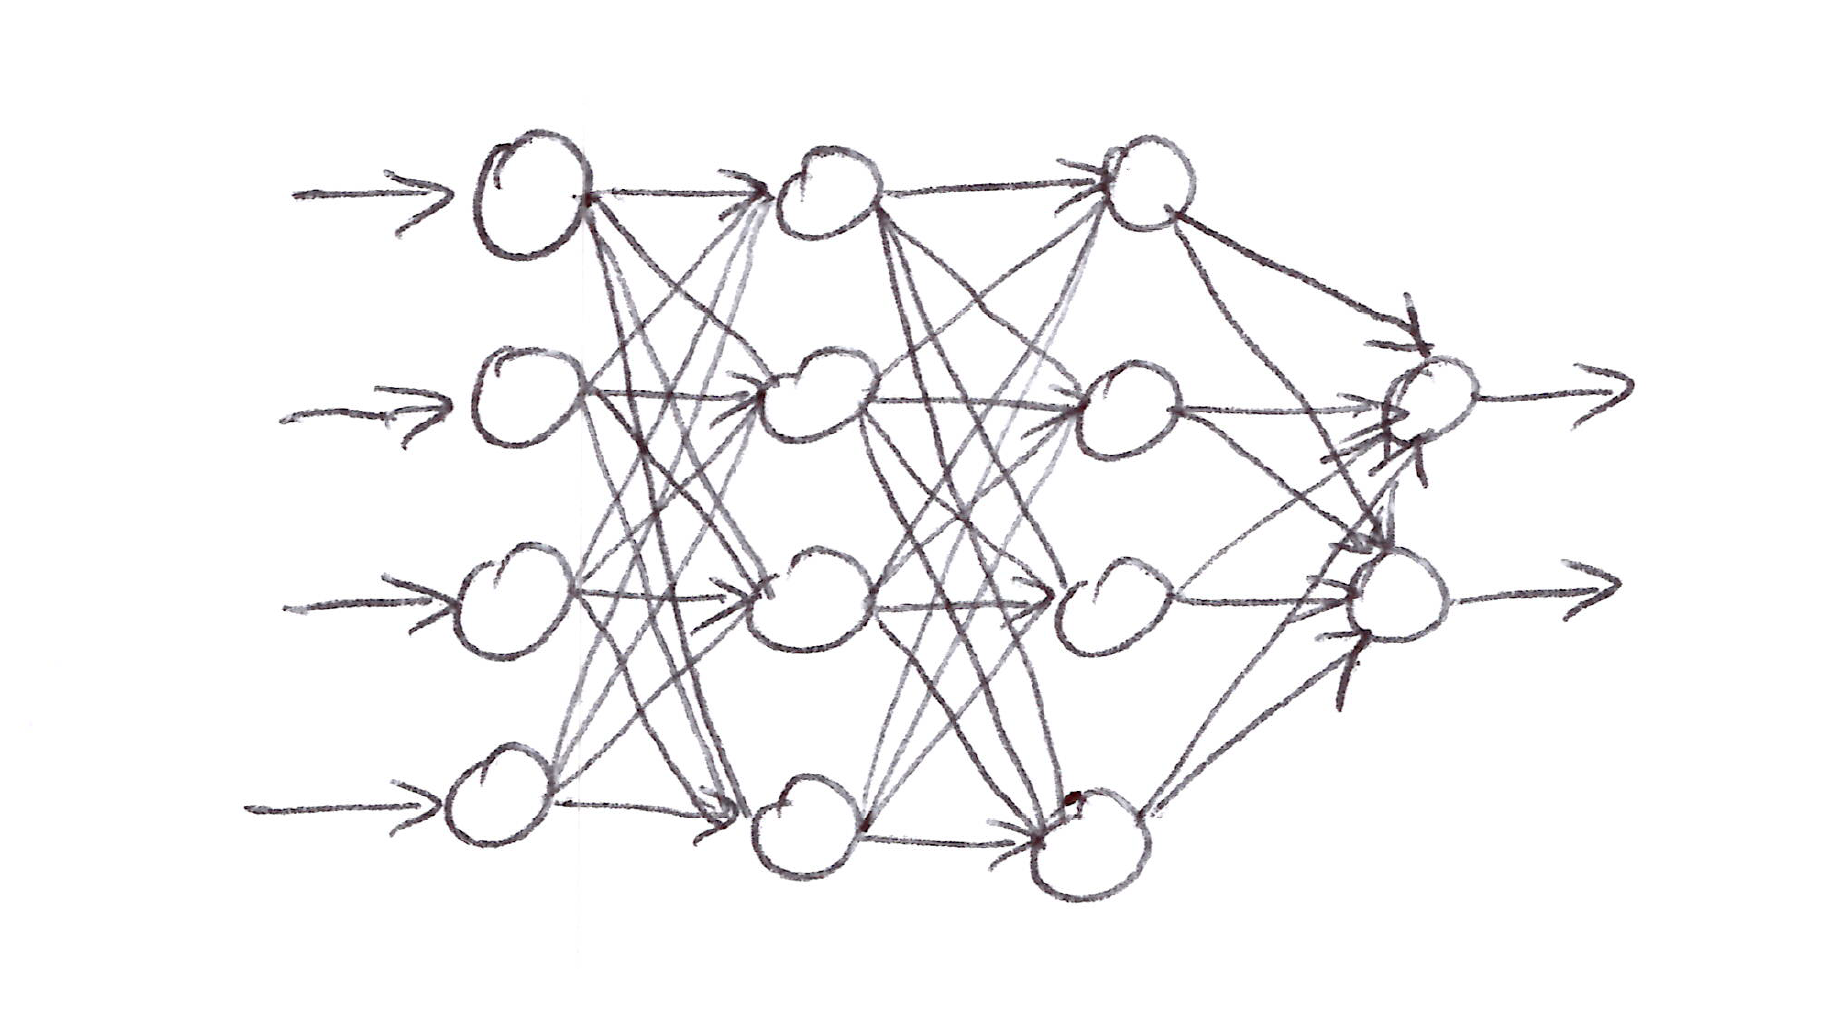
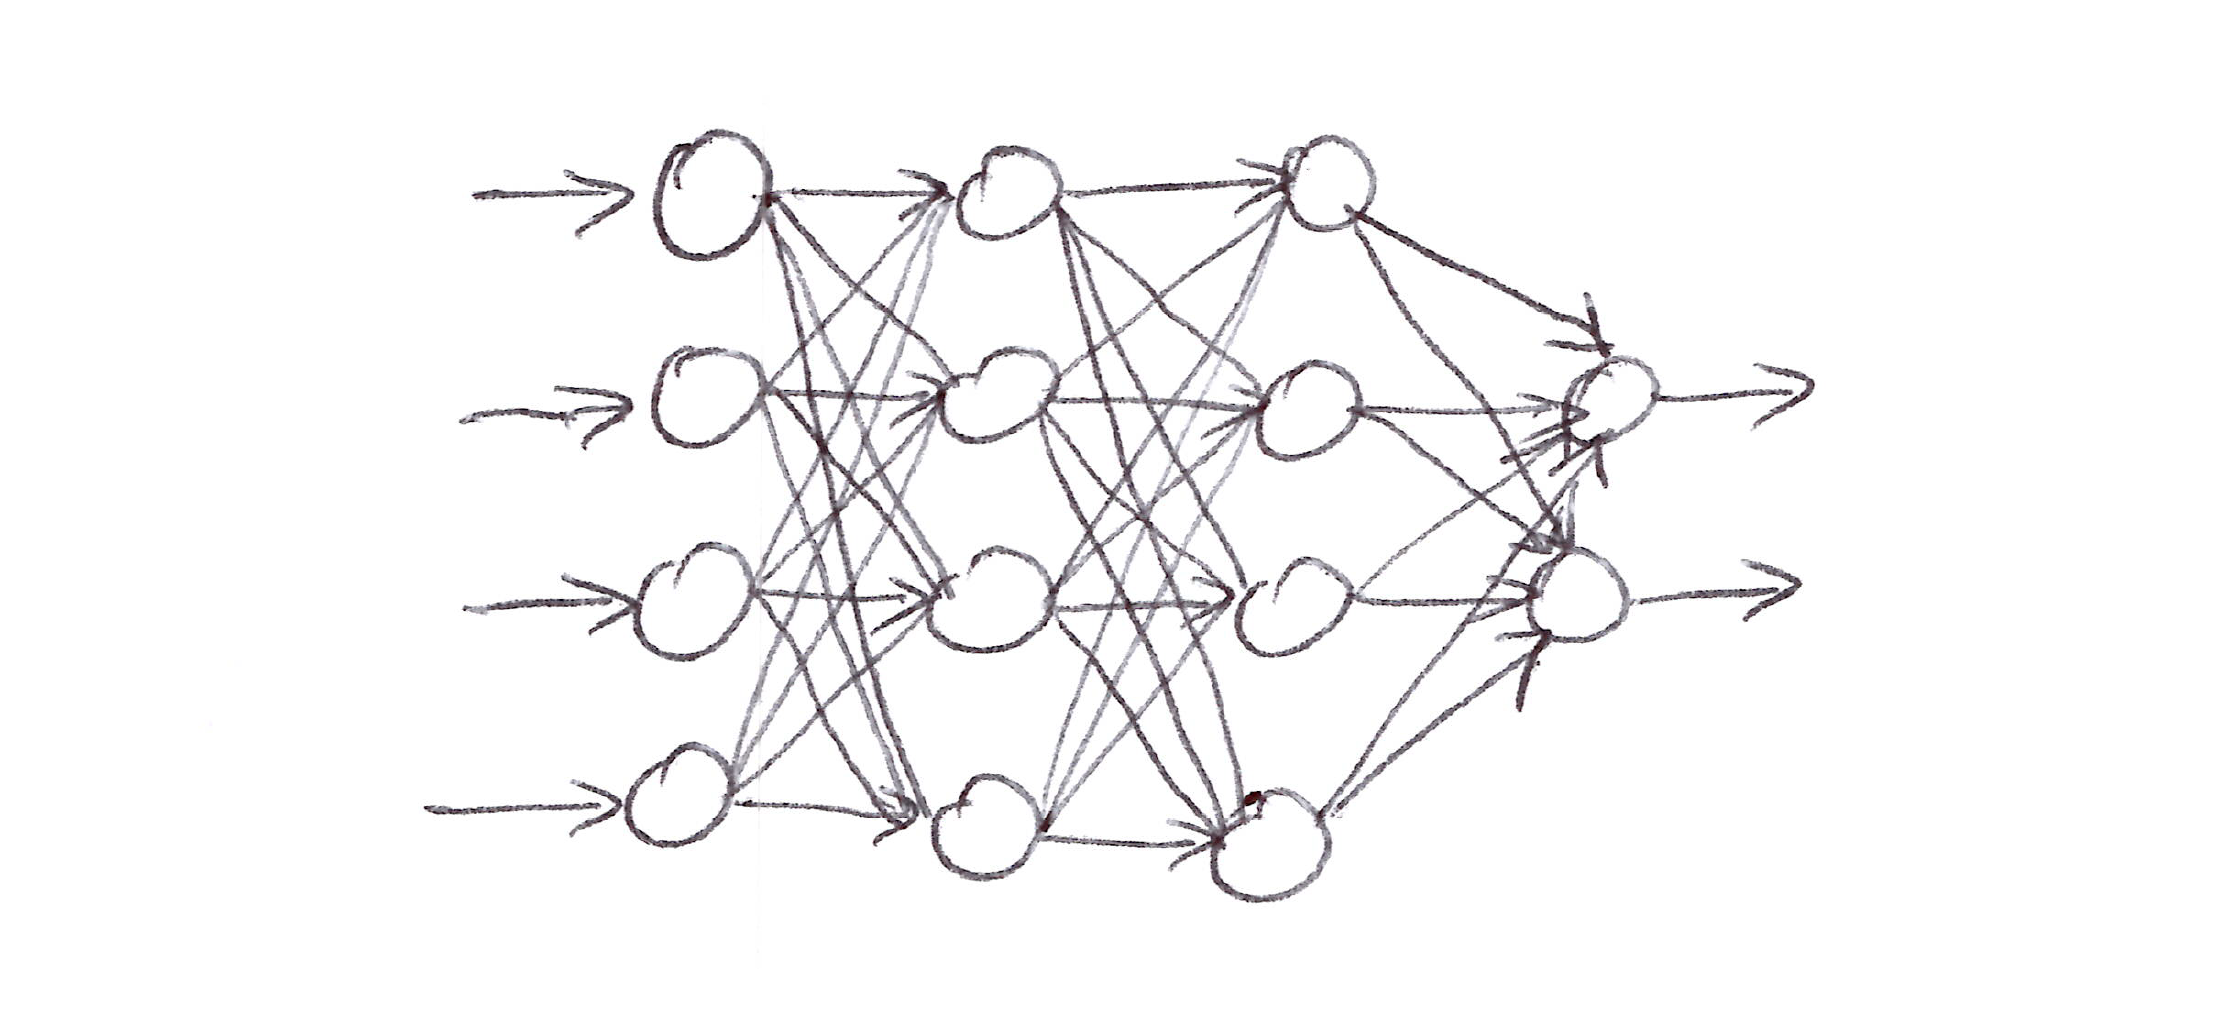
edit rl sutton barto ch 8 notes blog post and add more relevant figures

Changed region(s): [[0.125, 0.1214, 0.9062, 0.8805]]

diff --git a/_posts/2026-02-27-rl-sutton-barto-notes-ch009.md b/_posts/2026-02-27-rl-sutton-barto-notes-ch009.md
@@ -311,7 +311,7 @@ $$\mathbf{x}(s) = \bigl(1,\ s_1,\ s_2,\ s_1 s_2\bigr)^T$$
 
 - For $k$ numerical dimensions, suppose each state $s$ corresponds to $k$ numbers $$s_1, s_2, s_3, \ldots, s_k \text{ with each } s_i \in \mathbb{R.}$$ each order-$n$ polynomial-basis feature $x_i$ can be written as:
 
-$$x_i(s) = \prod_{j=1}^{k} s_j^{c_{i,j}}$$
+$$\boxed{x_i(s) = \prod_{j=1}^{k} s_j^{c_{i,j}}}$$
 
 $$
 \begin{aligned}
@@ -333,7 +333,7 @@ $$x_i(s) = \cos(i \pi s), \quad s \in [0, 1] \quad \text{for } i = 0, 1, 2, \ldo
 
 - For $k$-dimensional state space, the $i$-th feature in the order-$n$ Fourier cosine basis is:
 
-$$x_i(s) = \cos\!\left(\pi \mathbf{s}^T \mathbf{c}^i\right)$$
+$$\boxed{x_i(s) = \cos\!\left(\pi \mathbf{s}^T \mathbf{c}^i\right)}$$
 
 $$
 \begin{aligned}
@@ -352,7 +352,7 @@ $$
 
 ![coarse coding](/assets/images/ch09-9-5-3-coarse-coding.png)
 
-> **Coarse coding**: Generalization from state s to state s0 depends on the number of their features whose receptive fields (in this case, circles) overlap. These states have one feature in common, so there will be slight generalization between them.
+>**Coarse coding:** Generalization from state $s$ to state $s'$ depends on the number of their features whose receptive fields (in this case, circles) overlap. These states have one feature in common, so there will be slight generalization between them.
 
 - In the diagram above, if the state is inside a circle, then the corresponding feature has the value of 1 and is said to be **present**; otherwise the feature is 0 and is said to be **absent**.
 - This kind of 1-0 valued feature is called a **binary feature**.
@@ -368,34 +368,69 @@ $$
 - Each such partition is called a **tiling**, and each element of the partition is called a **tile**.
 - These tiles can be sets that are overlapping, uniform, or asymmetrically distributed.
 - The tiles do not need to be squares; they can be irregular shapes, horizontal/vertical/log lines.
+- **Advantages:** 
+  - Because tile coding works with partitions, the overall number of features that are active at one time is the **same** for any state.
+  - Because tile coding uses binary feature vectors, computing the approximate value function reduces to simply summing the $n$ weight components corresponding to the $n$ active tiles, rather than performing $d$ multiplications.
+
+- Generalization extends to states sharing tiles with the trained state, proportional to **tiles in common.** 
+  - **Uniform offsets** can introduce directional artifacts (e.g. diagonal bias); 
+  - **Asymmetric offsets** produce better-centered patterns.
+- Tilings are offset by $\frac{w}{n}$ (the fundamental unit). 
+  - **Uniform offsets** use displacement vector $(1,1)$; 
+  - **Asymmetric offsets** use $(1,3)$ for superior generalization.
+- Miller & Glanz (1996) recommend displacement vectors of **first odd integers** $(1, 3, 5, \ldots, 2k-1)$ for $k$ dimensions, with $n$ set to a **power of 2** $\geq 4k$.
+- Tile **number & size** determine resolution, while tile **shape** determines generalization.
+  - Square tiles generalize equally
+  - Elongated tiles generalize along their longer dimension
+  - Diagonal tiles generalize along a diagonal.
+- **Mixed tile shapes** (horizontal, vertical, conjunctive) allow per-dimension generalization while still learning values for specific conjunctions. Tile choice fully determines generalization behavior.
+- **Hashing** pseudorandomly collapses a large tiling into a much smaller set of tiles (each consisting of noncontiguous, disjoint regions), drastically reducing memory requirements with little performance loss.
+  - This sidesteps the curse of dimensionality since memory need only match the task's real demands rather than grow exponentially with dimensions.
+
+![hashing](/assets/images/ch09-9-5-4-hashing-border.png)
+
+>**Hashing:** 4 subtiles collapse into 1 tile in the above diagram
 
 ### 9.5.5 Radial Basis Functions (RBF)
 
 - RBFs are the natural extension/generalization of coarse coding to continuous-valued domain/feature space.
   - Rather than a feature being 0 or 1 (binary), it can take any value in the interval $[0, 1]$.
-- A typical RBF feature, $x_i$, has a Gaussian (bell-shaped) response $x_i(s)$ dependent only on the distance between the state $s$ and the feature's center state $c_i$ relative to the feature's width $\sigma_i$:
+- A typical RBF feature, $x_i$, has a Gaussian (bell-shaped) response $x_i(s)$ dependent only on the distance between the state $s$ and the feature's center state $c_i$, and relative to the feature's width $\sigma_i$:
 
-$$x_i(s) \doteq \exp\!\left(-\frac{\lVert s - c_i \rVert^2}{2\sigma_i^2}\right)$$
+$$\boxed{x_i(s) \doteq \exp\!\left(-\frac{\lVert s - c_i \rVert^2}{2\sigma_i^2}\right)}$$
+
+- let's see a 1-D example with a Euclidean distance metric
+
+![1D RBF](/assets/images/ch09-9-5-5-1dim-rbf.png)
+
+>**1-D RBF**: One-dimensional radial basis function
 
 - RBFs are more advantageous to binary features: they produce approximate functions that vary smoothly and are differentiable.
 - An **RBF network** is a linear function approximator using RBFs for its features.
 - Some learning methods for RBF networks change the features' centers and widths, making them nonlinear function approximators.
-- Nonlinear methods including nonlinear RBF networks are much more precise but are more computationally complex.
+- Nonlinear methods are much more precise in fitting the target functions, but (nonlinear) RBF networks are ***much more computationally complex*** and require more manual tuning before learning.
 
 ---
 
 ## 9.6 Selecting Step-Size Parameters Manually
 
 - What is the best way to select $\alpha$ for function approximation?
-  - The theory of stochastic approximation gives us conditions on a slowly decreasing step-size sequence that are sufficient to guarantee convergence, but these tend to result in learning that is too slow.
+- So far,
+  - The theory of stochastic approximation gives us conditions on a slowly decreasing step-size sequence that are sufficient to guarantee convergence, but these tend to result in learning that is **too slow.**
   - The sample-average classical method $\alpha_t = \frac{1}{t}$ is **not appropriate** for TD methods, for nonstationary problems, or for any function approximation method.
   - For linear methods, there are recursive least-square methods that set an optimal matrix step size which can be extended to LSTD methods (seen in Section 9.8), but these require $O(d^2)$ step-size parameters, or $d$ times more parameters than we are learning. Therefore, it is inappropriate for function approximation.
 
 - A good rule of thumb for setting the step-size parameter of linear SGD models is:
 
-$$\alpha \doteq \left(\tau\, \mathbb{E}\!\left[\mathbf{x}^T \mathbf{x}\right]\right)^{-1}$$
+$$\boxed{\alpha \doteq \left(\tau\, \mathbb{E}\!\left[\mathbf{x}^T \mathbf{x}\right]\right)^{-1}}$$
 
-where $\mathbf{x}$ = a random feature vector chosen from the same distribution as input vectors will be in the SGD, and $\tau$ = number of experiences within which learning converges.
+$$
+\begin{aligned}
+\text{where} \\
+\mathbf{x} &= \text{random feature vector chosen from the same distribution as input vectors in the SGD} \\
+\tau &= \text{number of experiences within which learning converges}
+\end{aligned}
+$$
 
 - This rule of thumb works best if the feature vectors do not vary greatly in length; ideally $\mathbf{x}^T \mathbf{x}$ is a constant.
 
@@ -405,16 +440,25 @@ where $\mathbf{x}$ = a random feature vector chosen from the same distribution a
 
 - ANNs are widely used for nonlinear function approximation.
 - An ANN is a network of interconnected units that have some of the properties of neurons, the main components of nervous systems.
-- The units (circles in the figure) compute a weighted sum of their input signals, and then apply a nonlinear function, called the **activation function**, to the result.
+
+![Generic ANN](/assets/images/ch09-9-7-ann.png)
+
+>**ANN**: A generic feedforward ANN with 4 input units, 2 output units, and 2 hidden layers.
+
+- The units (circles in the figure above) compute a weighted sum of their input signals, and then apply a nonlinear function, called the **activation function**, to the result.
 - Some activation functions include:
-  - Logistic function: $f(x) = 1/(1 + e^{-x})$
-  - Rectifier nonlinearity: $f(x) = \max(0, x)$
-  - Step function: $f(x) = \begin{cases} 1 & \text{if } x \geq 0 \\ 0 & \text{otherwise} \end{cases}$
+$$
+\begin{aligned}
+\text{Sigmoid:} \quad & f(x) = \frac{1}{1 + e^{-x}} \\ \\
+\text{ReLU:} \quad & f(x) = \max(0, x) \\ \\
+\text{Binary step:} \quad & f(x) = \left\{ \begin{array}{ll} 1 & \text{if } x \geq 0 \\ 0 & \text{if } x < 0 \end{array} \right\}
+\end{aligned}
+$$
 
 - ANNs can use TD errors to learn value functions, or they can aim to maximize expected reward as in a gradient bandit (Section 2.8) or a policy gradient algorithm (Chapter 13).
 - Overfitting in ANNs is a problem for function approximation that can be reduced through the **dropout** method [Srivastava, Hinton, Krizhevsky, Sutskever & Salakhutdinov, 2014].
-- Deep belief networks presented a major step towards solving the training problem of deep layers of a deep ANN [Hinton, Osindero & Teh, 2006].
-- **Batch normalization** makes it easier to train deep ANNs by normalizing the output of deep layers before they feed into the following layer; this improves the learning rate of deep ANNs [Ioffe & Szegedy, 2015].
+- **Deep belief networks** presented a major step towards solving the training problem of deep layers of a deep ANN [Hinton, Osindero & Teh, 2006].
+- **Batch normalization** makes it easier to train deep ANNs by normalizing the output of deep layers before they feed into the following layer. This improves the learning rate of deep ANNs [Ioffe & Szegedy, 2015].
 - **Deep residual learning** is another technique useful for training deep ANNs [He, Zhang, Ren & Sun, 2016].
 - **Deep Convolutional Networks** have proven to be very successful in impressive RL algorithms [LeCun, Bottou, Bengio & Haffner, 1998].
 - In summary, advances in the design and training of ANNs, of which we have only mentioned a few, all contribute to RL.
@@ -426,32 +470,44 @@ where $\mathbf{x}$ = a random feature vector chosen from the same distribution a
 
 - As established earlier, TD(0) with linear function approximator converges asymptotically (for appropriately decreasing step sizes) to the TD fixed point:
 
-$$\mathbf{w}_\text{TD} = \mathbf{A}^{-1}\mathbf{b}$$
+$$\boxed{\mathbf{w}_\text{TD} = \mathbf{A}^{-1}\mathbf{b}}$$
 
-where $A \doteq \mathbb{E}\!\left[\mathbf{x}_t\!\left(\mathbf{x}_t - \gamma \mathbf{x}_{t+1}\right)^T\right]$ and $b \doteq \mathbb{E}\!\left[R_{t+1}\, \mathbf{x}_t\right]$.
+$$
+\begin{aligned}
+\text{where} \\
+A &\doteq \mathbb{E}\!\left[\mathbf{x}_t\!\left(\mathbf{x}_t - \gamma \mathbf{x}_{t+1}\right)^T\right] \\
+b &\doteq \mathbb{E}\!\left[R_{t+1}\, \mathbf{x}_t\right]
+\end{aligned}
+$$
 
-- Instead of computing $\mathbf{w}_\text{TD}$ iteratively, let's compute estimates of $\mathbf{A}$ and $\mathbf{b}$ and then directly compute the TD fixed point. This is what **Least-Squares TD (LSTD)** does exactly.
-- The natural estimates are:
+- Instead of computing $\mathbf{w}_\text{TD}$ iteratively, let's compute estimates of $\mathbf{A}$ and $\mathbf{b}$ and then directly compute the TD fixed point. This is what **Least-Squares TD (LSTD)** does exactly. It forms the natural estimates:
 
-$$\hat{A}_t \doteq \sum_{k=0}^{t-1} x_k\!\left(\mathbf{x}_k - \gamma \mathbf{x}_{k+1}\right)^T + \varepsilon \mathbf{I}$$
+$$\mathbf{\hat{A}_t} \doteq \sum_{k=0}^{t-1} \mathbf{x_k}\!\left(\mathbf{x}_k - \gamma \mathbf{x}_{k+1}\right)^T + \varepsilon \mathbf{I}$$
 
-$$\hat{b}_t \doteq \sum_{k=0}^{t-1} R_{k+1}\, \mathbf{x}_k$$
+$$\mathbf{\hat{b}_t} \doteq \sum_{k=0}^{t-1} R_{k+1}\, \mathbf{x}_k$$
 
-where $\mathbf{I}$ is the identity matrix and $\varepsilon \mathbf{I}$ for some small $\varepsilon > 0$ ensures that $\hat{A}_t$ is always invertible.
+$$
+\begin{aligned}
+\text{where} \\
+\mathbf{I} &= \text{identity matrix}, \text{and} \\
+\varepsilon & \mathbf{I} \text{, for some small } \varepsilon > 0 \text{, ensures that } \mathbf{\hat{A}_t} \text{ is always invertible}
+\end{aligned}
+$$
 
 - The LSTD estimated TD fixed point is:
 
-$$\mathbf{w}_t \doteq \hat{A}_t^{-1} \hat{b}_t$$
+$$\boxed{\mathbf{w}_t \doteq \mathbf{\hat{A}_t}^{-1} \mathbf{\hat{b}_t}}$$
 
-**Computational Complexity:**
+### Computational Complexity
 
-- The inverse of $\hat{A}_t$ computation costs $O(d^3)$, but this can be reduced to $O(d^2)$ using the **Sherman-Morrison** formula:
+- The inverse of $\mathbf{\hat{A}_t}$ computation costs $O(d^3)$, but this can be reduced to $O(d^2)$ using the **Sherman-Morrison** formula:
 
-$$\hat{A}_t^{-1} = \left(\hat{A}_{t-1} + x_{t-1}\!\left(x_{t-1} - \gamma \mathbf{x}_t\right)^T\right)^{-1}$$
+$$\mathbf{\hat{A}_t^{-1}} = \left(\mathbf{\hat{A}_{t-1}} + \mathbf{x_{t-1}}\!\left(\mathbf{x_{t-1}} - \gamma \mathbf{x}_t\right)^T\right)^{-1}$$
 
-$$\hat{A}_t^{-1} = \hat{A}_{t-1}^{-1} - \frac{\hat{A}_{t-1}^{-1} \mathbf{x}_{t-1}\!\left(\mathbf{x}_{t-1} - \gamma \mathbf{x}_t\right)^T \hat{A}_{t-1}^{-1}}{1 + \left(\mathbf{x}_{t-1} - \gamma \mathbf{x}_t\right)^T A_{t-1}^{-1} \mathbf{x}_{t-1}}, \quad \text{for } t > 0, \text{ with } \hat{A}_0 \doteq \varepsilon \mathbf{I}$$
+$$\boxed{\mathbf{\hat{A}_t^{-1}} = \mathbf{\hat{A}_{t-1}^{-1}} - \frac{\mathbf{\hat{A}_{t-1}^{-1}} \mathbf{x}_{t-1}\!\left(\mathbf{x}_{t-1} - \gamma \mathbf{x}_t\right)^T \mathbf{\hat{A}_{t-1}^{-1}}}{1 + \left(\mathbf{x}_{t-1} - \gamma \mathbf{x}_t\right)^T \mathbf{\hat{A}_t^{-1}} \mathbf{x}_{t-1}}, \quad \text{for } t > 0, \text{ with } \mathbf{\hat{A}_0} \doteq \varepsilon \mathbf{I}}$$
 
 - LSTD does **not** require a step-size and as such means that it never forgets, which is sometimes desirable but often not in RL problems where both the policy and environment change with time.
+- However in control applications, LSTD typically has to be combined with some other mechanism to induce forgetting, negating its advantage of not requiring a step-size parameter.
 
 ---
 
@@ -475,7 +531,8 @@ $$\hat{A}_t^{-1} = \hat{A}_{t-1}^{-1} - \frac{\hat{A}_{t-1}^{-1} \mathbf{x}_{t-1
   - Do not limit approximations to pre-specified functional forms.
   - The more data accumulated, the better the accuracy.
   - Allow for relatively immediate effect on value estimates in the neighborhood of the current state.
-  - Handle/address the curse of dimensionality, which is a big problem for global approximation. For example, for a state space with $K$ dimensions, a tabular method storing a global approximation requires memory exponential in $K$, while storing examples in a memory-based method requires only memory proportional to $K$, or linear in the number of examples $n$.
+  - Handle/address the curse of dimensionality, which is a big problem for global approximation. 
+    - For example, for a state space with $K$ dimensions, a **tabular method** storing a global approximation requires memory ***exponential in $K$,*** while storing examples in a **memory-based method** requires only memory ***proportional to $K$, or linear in the number of examples $n$.***
 
 ---
 
@@ -488,17 +545,24 @@ $$\hat{A}_t^{-1} = \hat{A}_{t-1}^{-1} - \frac{\hat{A}_{t-1}^{-1} \mathbf{x}_{t-1
 $$k : S \times S \to \mathbb{R}$$
 
 - $k(s, s')$ is a measure of the strength of generalization from $s'$ to $s$.
-- Kernel functions numerically express how relevant knowledge about any state is to any other state.
-- **Kernel regression** is the memory-based method that computes a kernel weighted average of the targets of all examples stored in memory:
+- Kernel functions numerically express **how relevant** knowledge about any state is to any other state.
+- **Kernel regression** is the memory-based method that computes a kernel weighted average of the targets of **all examples** stored in memory:
 
-$$\hat{v}(s, D) = \sum_{s' \in D} k(s, s')\, g(s')$$
+$$\boxed{\hat{v}(s, D) = \sum_{s' \in D} k(s, s')\, g(s')}$$
 
-where $\hat{v}(s, D)$ = value function approximation for query state $s$ for $D$ set of stored examples, $D$ = set of stored examples, $g(s')$ = target for state $s'$ in a stored example (Gaussian RBF discussed earlier in Section 9.5.5).
+$$
+\begin{aligned}
+\text{where} \\
+\hat{v}(s, D) &= \text{value function approximation for query state } s \text{ over stored examples } D \\
+D &= \text{set of stored examples} \\
+g(s') &= \text{target for state } s' \text{ in a stored example}
+\end{aligned}
+$$
 
-- A common kernel is the Gaussian Radial Basis Function (RBF).
+- A common kernel is the Gaussian Radial Basis Function (RBF) discussed earlier in Section 9.5.5.
 - Kernel regression with RBF differs from linear-based RBF in 2 ways:
-  - It is memory-based $\Rightarrow$ RBFs are centered on the states of the stored examples.
-  - It is non-parametric $\Rightarrow$ no parameters to learn.
+  - It is **memory-based** $\Rightarrow$ RBFs are centered on the states of the stored examples.
+  - It is **non-parametric** $\Rightarrow$ no parameters to learn.
 
 - We can recast any linear parametric regression method with feature vectors $\mathbf{x}(s) = (x_1(s), x_2(s), x_3(s), \ldots, x_d(s))^T$ into a kernel regression as:
 
@@ -513,13 +577,13 @@ $$k(s, s') = \mathbf{x}(s)^T \mathbf{x}(s')$$
 - So far we have treated all encountered states with equal importance, however it seems more likely that we often have more interest in some states than others.
 - For this scenario, we introduce 2 new concepts: **Interest** and **Emphasis**.
 
-**Interest:**
+### Interest
 
 - Interest is the degree to which we value an accurate estimate of the values of a given state. How interested are we in the accurate valuation of a given state at time $t$?
 
 $$\mathcal{I}_t \in [0, 1]$$
 
-**Emphasis:**
+### Emphasis
 
 - Emphasis is a non-negative scalar random variable that multiplies the learning update and thus emphasizes or de-emphasizes the learning done at time $t$.
 - The general $n$-step learning update is:
@@ -530,19 +594,19 @@ $$G_{t:t+n} \doteq R_{t+1} + \gamma R_{t+2} + \cdots + \gamma^{n-1} R_{t+n} + \g
 
 - The emphasis is determined recursively from the interest:
 
-$$M_t = \mathcal{I}_t + \gamma^n M_{t-n}, \quad 0 \leq t < T$$
+$$\boxed{M_t = \mathcal{I}_t + \gamma^n M_{t-n}, \quad 0 \leq t < T}$$
 
-with $M_t \doteq 0$, $\forall t < 0$.
+$$\text{with } M_t \doteq 0, \quad \forall t < 0$$
 
 ---
 
 ## 9.12 Summary
 
-- Generalization is a must for RL systems for AI applications and supervised-learning function approximation helps achieve this.
-- The prediction objective $\overline{\text{VE}}(\mathbf{w})$, called the mean squared value error, gives us a clear way to rank different value-function approximations in the on-policy case.
+- **Generalization** is a must for RL systems for AI applications and **supervised-learning function approximation** helps achieve this.
+- The prediction objective $\overline{\text{VE}}(\mathbf{w})$, called the **mean squared value error,** gives us a clear way to rank different value-function approximations in the on-policy case.
 - Most techniques use stochastic gradient descent (SGD) to find the set of weight parameters that minimize $\overline{\text{VE}}(\mathbf{w})$.
 - Linear methods converge to the global optimum under certain conditions.
-- Features constructed for linear function approximations could be represented as: polynomials, Fouriers, coarse codings, tile codings, and radial basis functions (RBFs).
+- Features constructed for linear function approximations could be represented as: **polynomials, Fouriers, coarse codings, tile codings, and radial basis functions (RBFs).**
 - A huge success in notable RL applications could be attributed to multi-layer ANNs as nonlinear function approximators.
-- Non-parametric models help us avoid the curse of dimensionality.
-- Interest and Emphasis enable us to focus the function approximation on the states we're more interested in.
+- Non-parametric models help us **avoid the curse of dimensionality.**
+- **Interest and Emphasis** enable us to focus the function approximation on the states we're more interested in.
